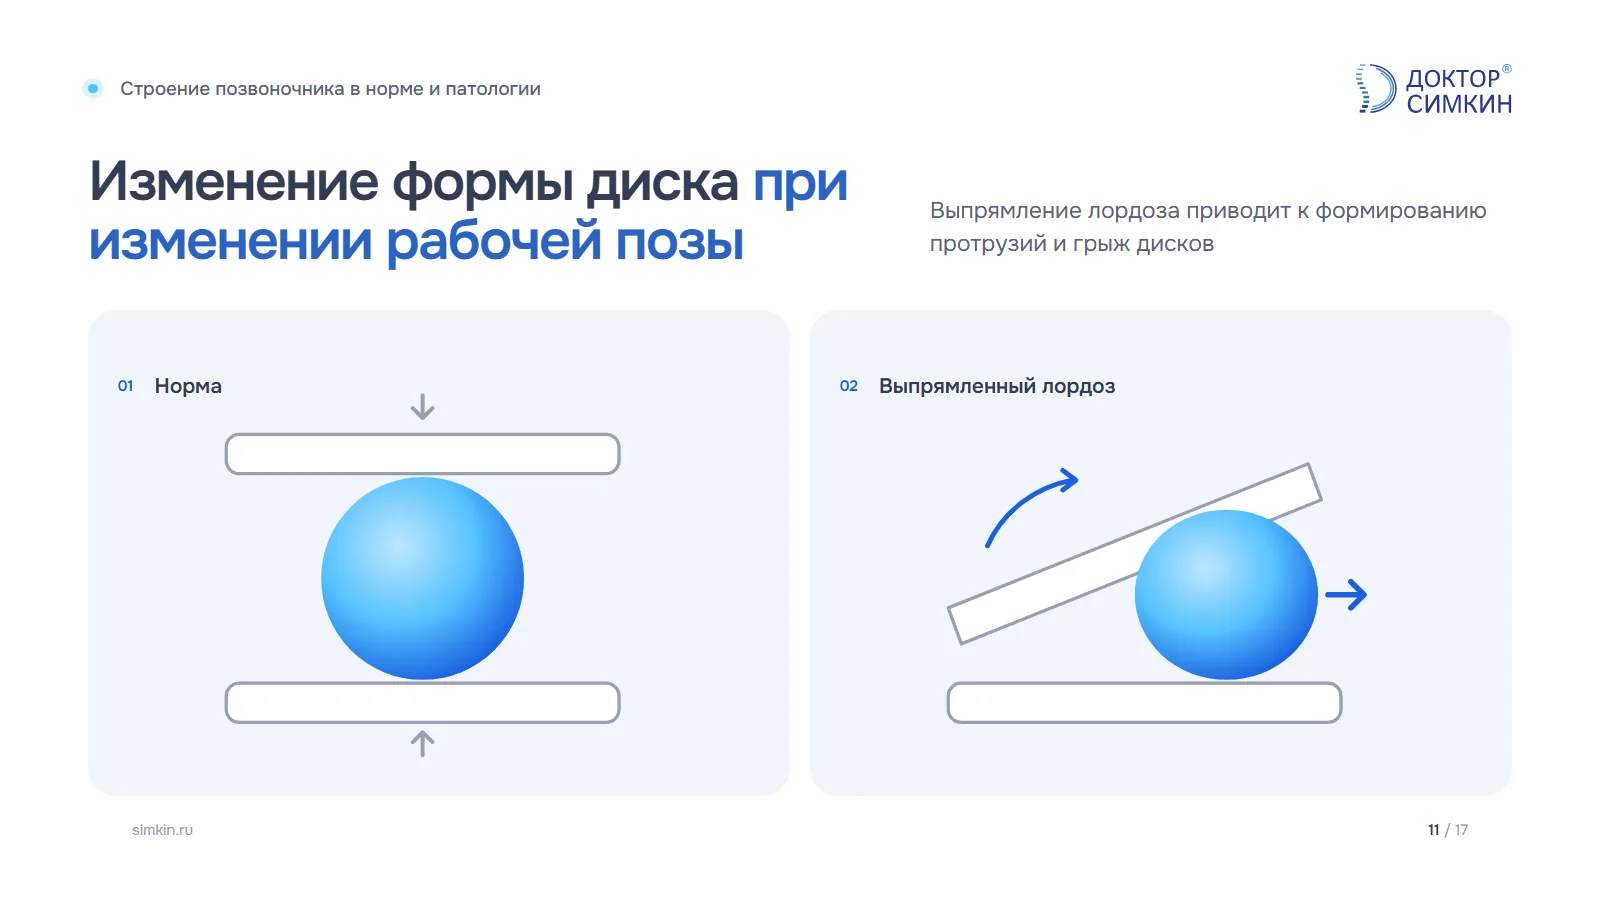
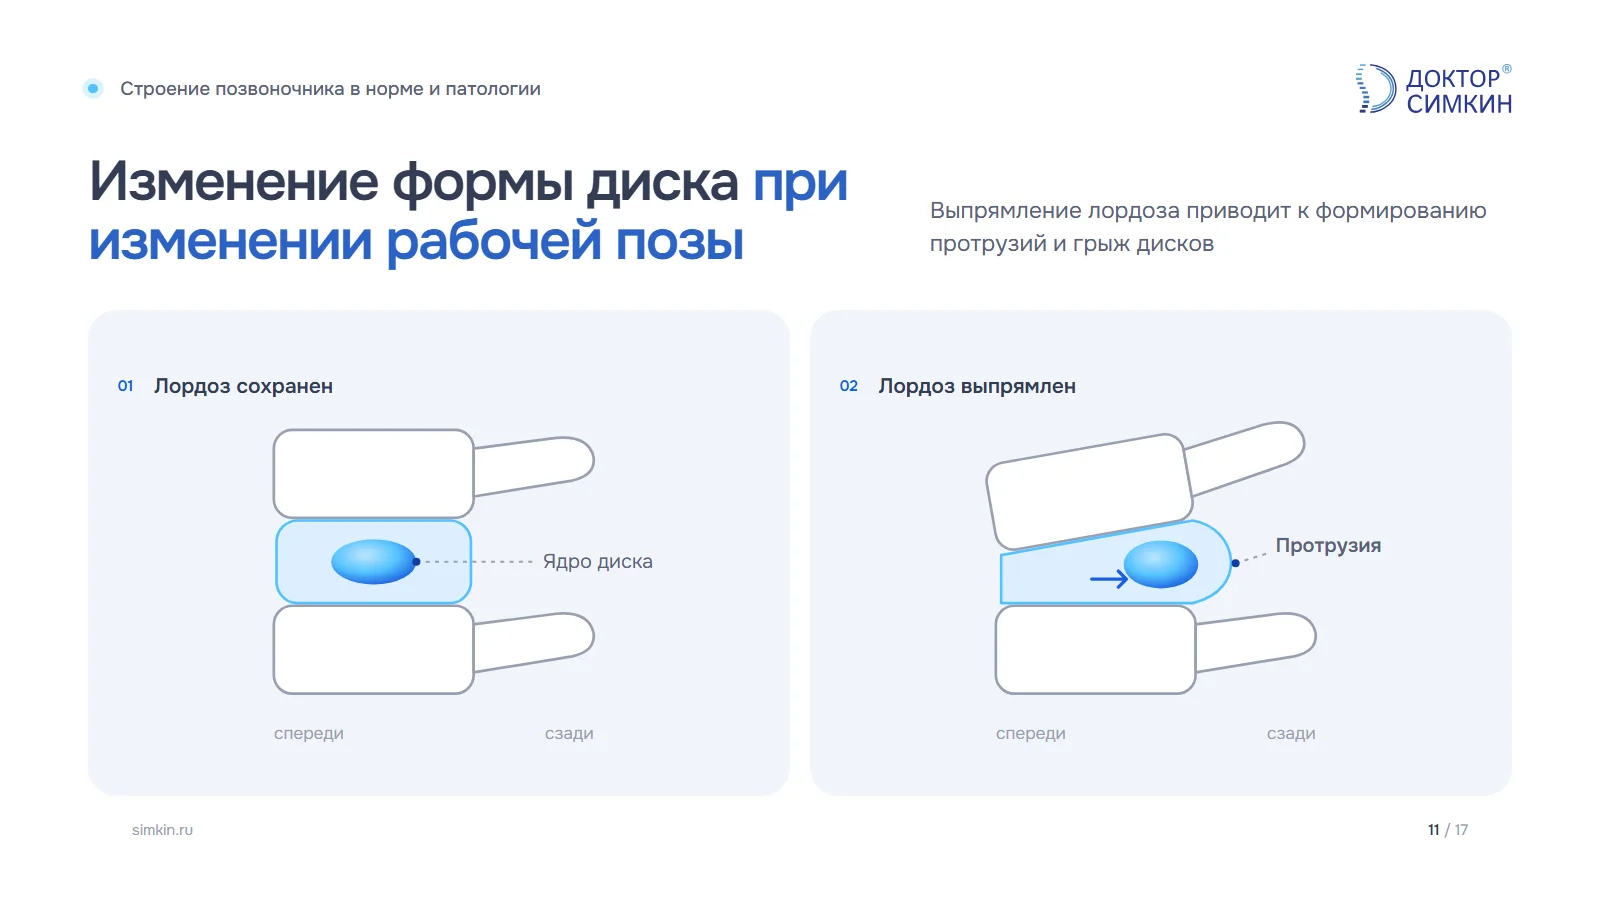
Слайд «Изменение формы диска»: вместо шара между пластинами — позвоночный сегмент сбоку, ядро и протрузия подписаны

diff --git a/slides/index.html b/slides/index.html
@@ -299,7 +299,7 @@ img{display:block;max-width:100%}
   <section class="pair">
     <div class="pair__head"><span class="pair__num">05</span><h2 class="pair__title">Изменение формы диска</h2></div>
     <div class="pair__grid">
-      <div class="before"><span class="tag">Было</span><img src="../design/assets/course/slide-02.jpg" alt="Исходный слайд «Изменение формы диска»" loading="lazy"><small>Схема перерисована в стиле сайта по исходной (диск как шар между пластинами). Подписи «Норма» и «Выпрямленный лордоз» добавлены для читаемости, их стоит показать заказчику.</small></div>
+      <div class="before"><span class="tag">Было</span><img src="../design/assets/course/slide-02.jpg" alt="Исходный слайд «Изменение формы диска»" loading="lazy"><small>Схема перерисована: позвоночный сегмент сбоку, при выпрямлении лордоза ядро смещается назад и образует протрузию. Подписи «Ядро диска», «Протрузия», «спереди / сзади» добавлены для читаемости, их стоит показать заказчику.</small></div>
       <div class="after">
         <span class="tag tag--new">Стало</span>
         <div class="slide-wrap"><div class="slide">
@@ -311,25 +311,34 @@ img{display:block;max-width:100%}
             </div>
             <div class="discs">
               <div class="disc">
-                <svg viewBox="20 12 280 236" aria-hidden="true">
-                  <defs><radialGradient id="ballA" cx="38%" cy="34%" r="70%"><stop offset="0" stop-color="#BFE6FF"/><stop offset=".55" stop-color="#54C2FF"/><stop offset="1" stop-color="#1A5FE0"/></radialGradient></defs>
-                  <rect x="30" y="44" width="240" height="24" rx="8" fill="#fff" stroke="#98A0B2" stroke-width="2"/>
-                  <rect x="30" y="196" width="240" height="24" rx="8" fill="#fff" stroke="#98A0B2" stroke-width="2"/>
-                  <circle cx="150" cy="132" r="62" fill="url(#ballA)"/>
-                  <path d="M150 20v14M144 28l6 6 6-6M150 240v-14M144 232l6-6 6 6" fill="none" stroke="#98A0B2" stroke-width="2.4" stroke-linecap="round" stroke-linejoin="round"/>
+                <svg viewBox="0 0 360 290" aria-hidden="true">
+                  <defs><radialGradient id="nucA" cx="40%" cy="35%" r="70%"><stop offset="0" stop-color="#BFE6FF"/><stop offset=".55" stop-color="#54C2FF"/><stop offset="1" stop-color="#1A5FE0"/></radialGradient></defs>
+                  <rect x="56" y="36" width="150" height="66" rx="14" fill="#fff" stroke="#98A0B2" stroke-width="2" stroke-linejoin="round"/><path d="M206 50 L268 42 Q292 40 296 56 Q298 70 280 74 L206 86 Z" fill="#fff" stroke="#98A0B2" stroke-width="2" stroke-linejoin="round"/>
+                  <rect x="58" y="104" width="146" height="62" rx="16" fill="#DDEFFF" stroke="#54C2FF" stroke-width="2" stroke-linejoin="round"/>
+                  <ellipse cx="131" cy="135" rx="32" ry="17" fill="url(#nucA)"/>
+                  <rect x="56" y="168" width="150" height="66" rx="14" fill="#fff" stroke="#98A0B2" stroke-width="2" stroke-linejoin="round"/><path d="M206 182 L268 174 Q292 172 296 188 Q298 202 280 206 L206 218 Z" fill="#fff" stroke="#98A0B2" stroke-width="2" stroke-linejoin="round"/>
+                  <path d="M163 135H252" stroke="#98A0B2" stroke-width="1.6" stroke-dasharray="3 4"/>
+                  <circle cx="163" cy="135" r="3" fill="#123E9E"/>
+                  <text x="258" y="140" font-family="Onest, sans-serif" font-size="15" fill="#5A6379">Ядро диска</text>
+                  <text x="56" y="268" font-family="Onest, sans-serif" font-size="13" fill="#98A0B2">спереди</text><text x="296" y="268" text-anchor="end" font-family="Onest, sans-serif" font-size="13" fill="#98A0B2">сзади</text>
                 </svg>
-                <div class="disc__cap"><span>01</span>Норма</div>
+                <div class="disc__cap"><span>01</span>Лордоз сохранен</div>
               </div>
               <div class="disc">
-                <svg viewBox="20 12 280 236" aria-hidden="true">
-                  <defs><radialGradient id="ballB" cx="38%" cy="34%" r="70%"><stop offset="0" stop-color="#BFE6FF"/><stop offset=".55" stop-color="#54C2FF"/><stop offset="1" stop-color="#1A5FE0"/></radialGradient></defs>
-                  <polygon points="30,150 250,62 258,84 38,172" fill="#fff" stroke="#98A0B2" stroke-width="2" stroke-linejoin="round"/>
-                  <rect x="30" y="196" width="240" height="24" rx="8" fill="#fff" stroke="#98A0B2" stroke-width="2"/>
-                  <ellipse cx="200" cy="142" rx="56" ry="52" fill="url(#ballB)"/>
-                  <path d="M54 112c10-22 30-36 52-40M100 66l8 6-8 6" fill="none" stroke="#1A5FE0" stroke-width="3" stroke-linecap="round" stroke-linejoin="round"/>
-                  <path d="M262 142h22M276 134l8 8-8 8" fill="none" stroke="#1A5FE0" stroke-width="3.4" stroke-linecap="round" stroke-linejoin="round"/>
+                <svg viewBox="0 0 360 290" aria-hidden="true">
+                  <defs><radialGradient id="nucB" cx="40%" cy="35%" r="70%"><stop offset="0" stop-color="#BFE6FF"/><stop offset=".55" stop-color="#54C2FF"/><stop offset="1" stop-color="#1A5FE0"/></radialGradient></defs>
+                  <g transform="rotate(-10 206 102)"><rect x="56" y="36" width="150" height="66" rx="14" fill="#fff" stroke="#98A0B2" stroke-width="2" stroke-linejoin="round"/><path d="M206 50 L268 42 Q292 40 296 56 Q298 70 280 74 L206 86 Z" fill="#fff" stroke="#98A0B2" stroke-width="2" stroke-linejoin="round"/></g>
+                  <path d="M60 130 L204 104 C238 110 246 156 204 166 L60 166 Z" fill="#DDEFFF" stroke="#54C2FF" stroke-width="2" stroke-linejoin="round"/>
+                  <ellipse cx="180" cy="137" rx="28" ry="18" fill="url(#nucB)"/>
+                  <path d="M140 137h-0" stroke="none"/>
+                  <path d="M128 148h26M148 142l6 6-6 6" fill="none" stroke="#1A5FE0" stroke-width="2.6" stroke-linecap="round" stroke-linejoin="round"/>
+                  <rect x="56" y="168" width="150" height="66" rx="14" fill="#fff" stroke="#98A0B2" stroke-width="2" stroke-linejoin="round"/><path d="M206 182 L268 174 Q292 172 296 188 Q298 202 280 206 L206 218 Z" fill="#fff" stroke="#98A0B2" stroke-width="2" stroke-linejoin="round"/>
+                  <path d="M236 136L262 128" stroke="#98A0B2" stroke-width="1.6" stroke-dasharray="3 4"/>
+                  <circle cx="236" cy="136" r="3" fill="#123E9E"/>
+                  <text x="266" y="128" font-family="Onest, sans-serif" font-size="15" fill="#5A6379" font-weight="600" fill="#123E9E">Протрузия</text>
+                  <text x="56" y="268" font-family="Onest, sans-serif" font-size="13" fill="#98A0B2">спереди</text><text x="296" y="268" text-anchor="end" font-family="Onest, sans-serif" font-size="13" fill="#98A0B2">сзади</text>
                 </svg>
-                <div class="disc__cap"><span>02</span>Выпрямленный лордоз</div>
+                <div class="disc__cap"><span>02</span>Лордоз выпрямлен</div>
               </div>
             </div>
           </div>

diff --git a/design/kurs-po-ergonomike.html b/design/kurs-po-ergonomike.html
@@ -339,7 +339,7 @@
     <div class="dk-prog" data-tabs>
     <div class="dk-mods">
       <article class="dk-mod" data-tab data-rv>
-        <div class="dshot dshot--slide"><picture><source srcset="assets/course/v2/slide-02.webp" type="image/webp"><img src="assets/course/v2/slide-02.jpg" alt="Слайд курса «Изменение формы диска при изменении рабочей позы»" width="800" height="450" loading="lazy" decoding="async"></picture></div>
+        <div class="dshot dshot--slide"><picture><source srcset="assets/course/v2/slide-02.webp?v=2" type="image/webp"><img src="assets/course/v2/slide-02.jpg?v=2" alt="Слайд курса «Изменение формы диска при изменении рабочей позы»" width="800" height="450" loading="lazy" decoding="async"></picture></div>
         <div class="dk-mod__body">
           <span class="dk-mod__n">Раздел 1</span>
           <h3>Поза и&nbsp;тело</h3>
